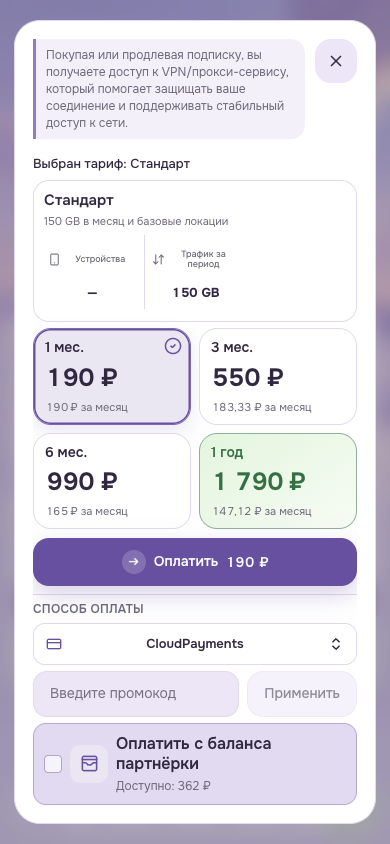
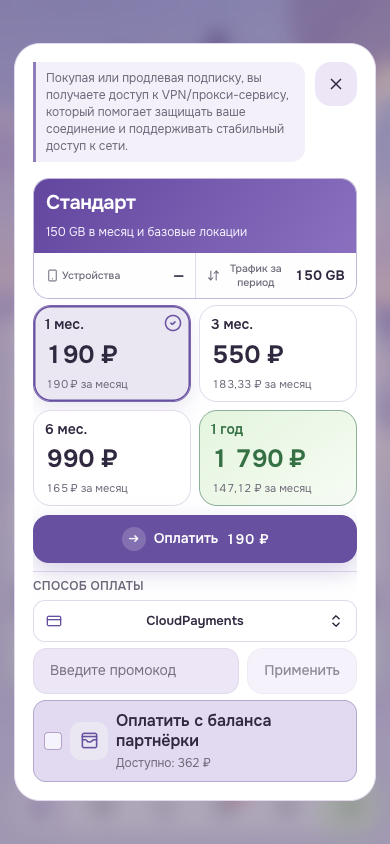
Release Avio theme 1.5.13

diff --git a/style.css b/style.css
@@ -885,7 +885,7 @@ html.theme-key-avio-landing :is(.install-platform-item, .language-select-item, .
   height: 34px;
   flex: 0 0 34px;
   place-items: center;
-  background: url("images/subscription-off.png") center / contain no-repeat;
+  background: url("images/subscription-unlocked.png") center / contain no-repeat;
 }
 .theme-key-avio-landing .home-bottom .status-card-inactive h2 {
   color: #8f263b;
@@ -1127,7 +1127,7 @@ html.theme-key-avio-landing :is(.install-platform-item, .language-select-item, .
   content: "";
   width: 38px;
   height: 38px;
-  background: url("images/subscription-off.png") center / contain no-repeat;
+  background: url("images/subscription-unlocked.png") center / contain no-repeat;
 }
 .theme-key-avio-landing .devices-inactive-card > span {
   color: #8f263b;
@@ -1547,4 +1547,150 @@ html.theme-key-avio-landing :is(.install-platform-item, .language-select-item, .
 }
 .theme-key-avio-landing .checkout-tariff-fact .checkout-tariff-limit-icon {
   flex: 0 0 13px;
+}
+
+/* Compact tariff summary: two facts above and the premium allowance below. */
+.theme-key-avio-landing .webapp-payment-dialog .tariff-step-caption {
+  display: none !important;
+}
+.theme-key-avio-landing .checkout-tariff-card {
+  border-radius: 16px;
+  overflow: hidden;
+  border-color: color-mix(in srgb, var(--accent) 25%, var(--border));
+}
+.theme-key-avio-landing .checkout-tariff-card-head {
+  padding: 12px;
+  gap: 8px 9px;
+  background: linear-gradient(125deg, #62469f, #8a70bf);
+  color: #fff;
+}
+.theme-key-avio-landing .checkout-tariff-title-line > strong {
+  color: #fff;
+  font-size: 20px;
+  font-weight: 650;
+  line-height: 1.2;
+  letter-spacing: -.025em;
+}
+.theme-key-avio-landing .checkout-tariff-description-line > small {
+  display: block;
+  color: #f5f0ff;
+  font-size: 12px;
+  line-height: 1.4;
+  font-weight: 400;
+  overflow: visible;
+  -webkit-line-clamp: unset;
+}
+.theme-key-avio-landing .checkout-tariff-edit {
+  min-width: 0;
+  height: 34px;
+  padding: 0 8px;
+  background: rgb(255 255 255 / 13%);
+  border: 1px solid rgb(255 255 255 / 45%);
+  color: #fff;
+  box-shadow: none;
+}
+.theme-key-avio-landing .checkout-tariff-edit::after { content: "Настройка тарифа"; }
+.theme-key-avio-landing .checkout-tariff-summary-static { padding: 0; }
+.theme-key-avio-landing .checkout-tariff-facts {
+  display: grid !important;
+  grid-template-columns: repeat(2, minmax(0, 1fr)) !important;
+  padding: 0 12px;
+  gap: 0;
+  background: color-mix(in srgb, var(--panel) 96%, var(--panel-2));
+}
+.theme-key-avio-landing .checkout-tariff-fact {
+  display: flex !important;
+  min-height: 0;
+  flex-direction: row !important;
+  align-items: center !important;
+  justify-content: space-between !important;
+  gap: 6px;
+  padding: 9px 0 !important;
+  overflow: visible;
+  text-align: left;
+}
+.theme-key-avio-landing .checkout-tariff-fact:nth-child(1) {
+  padding-right: 11px !important;
+}
+.theme-key-avio-landing .checkout-tariff-fact:nth-child(2) {
+  padding-left: 11px !important;
+  border-left: 1px solid var(--border) !important;
+}
+.theme-key-avio-landing .checkout-tariff-fact:nth-child(3) {
+  grid-column: 1 / -1;
+  padding-block: 9px !important;
+  border-top: 1px solid var(--border) !important;
+  border-left: 0 !important;
+}
+.theme-key-avio-landing .checkout-tariff-fact > .checkout-tariff-fact-label {
+  display: flex;
+  width: auto;
+  min-width: 0;
+  min-height: 0;
+  align-items: center;
+  justify-content: flex-start;
+  text-align: left;
+}
+.theme-key-avio-landing .checkout-tariff-fact .checkout-addon-label {
+  display: block;
+  width: auto;
+  font-size: 10.5px;
+  line-height: 1.3;
+  white-space: normal;
+  overflow: visible;
+  -webkit-line-clamp: unset;
+}
+.theme-key-avio-landing .checkout-tariff-fact > .checkout-addon-value {
+  width: auto;
+  flex: 0 0 auto;
+  font-size: clamp(12px, 3.5vw, 15px);
+  line-height: 1.2;
+  font-weight: 650;
+  text-align: right;
+  white-space: nowrap;
+  overflow: visible;
+}
+
+/* Keep the panorama and bundled action icons explicit after Core layout resets. */
+.theme-key-avio-landing.app-shell:has(.bottom-nav) {
+  background-image:
+    linear-gradient(180deg, var(--avio-backdrop-top), var(--avio-backdrop-middle) 48%, var(--avio-backdrop-bottom)),
+    url("images/avio-background-v2.png") !important;
+}
+.theme-key-avio-landing .sub-status-inactive::before {
+  background-image: url("images/subscription-unlocked.png");
+}
+.theme-key-avio-landing .home-bottom:has(.status-card-inactive) [data-webapp-action="open-payment"]::before {
+  background-image: url("images/action-arrow.png");
+}
+.theme-key-avio-landing .subscription-renew-action::before {
+  background-image: url("images/action-renew.png");
+}
+
+@media (max-width: 360px) {
+  .theme-key-avio-landing .checkout-tariff-card-head {
+    grid-template-columns: minmax(0, 1fr) auto;
+  }
+  .theme-key-avio-landing .checkout-tariff-edit {
+    width: auto;
+    min-width: 0;
+    padding-inline: 7px;
+    gap: 4px;
+    font-size: 9px;
+  }
+  .theme-key-avio-landing .checkout-tariff-edit::after {
+    display: inline;
+  }
+  .theme-key-avio-landing .checkout-tariff-facts {
+    grid-template-columns: .88fr 1.12fr !important;
+  }
+  .theme-key-avio-landing .checkout-tariff-fact-label > svg {
+    display: none;
+  }
+  .theme-key-avio-landing .checkout-tariff-fact .checkout-addon-label {
+    font-size: 9px;
+  }
+  .theme-key-avio-landing .checkout-tariff-fact > .checkout-addon-value {
+    font-size: 11px;
+  }
 }

diff --git a/README.md b/README.md
@@ -1,8 +1,8 @@
 # Avio — Твой интернет
 
-Версия 1.5.9: исправлена совместимость сетки параметров с production Core —
-подпись и значение каждого параметра находятся в отдельных строках без наложения.
-Пустая шапка продления сжата, а крестик явно закреплён справа.
+Версия 1.5.13: единый значок открытого замка используется для неактивной
+подписки на главной и на экране устройств. Сохранены компактный блок тарифа,
+фоновые изображения, локальные иконки приложений и адаптивная сетка без наложений.
 
 Установить тему можно по адресу этого публичного репозитория или ZIP-архивом
 из раздела Releases.
